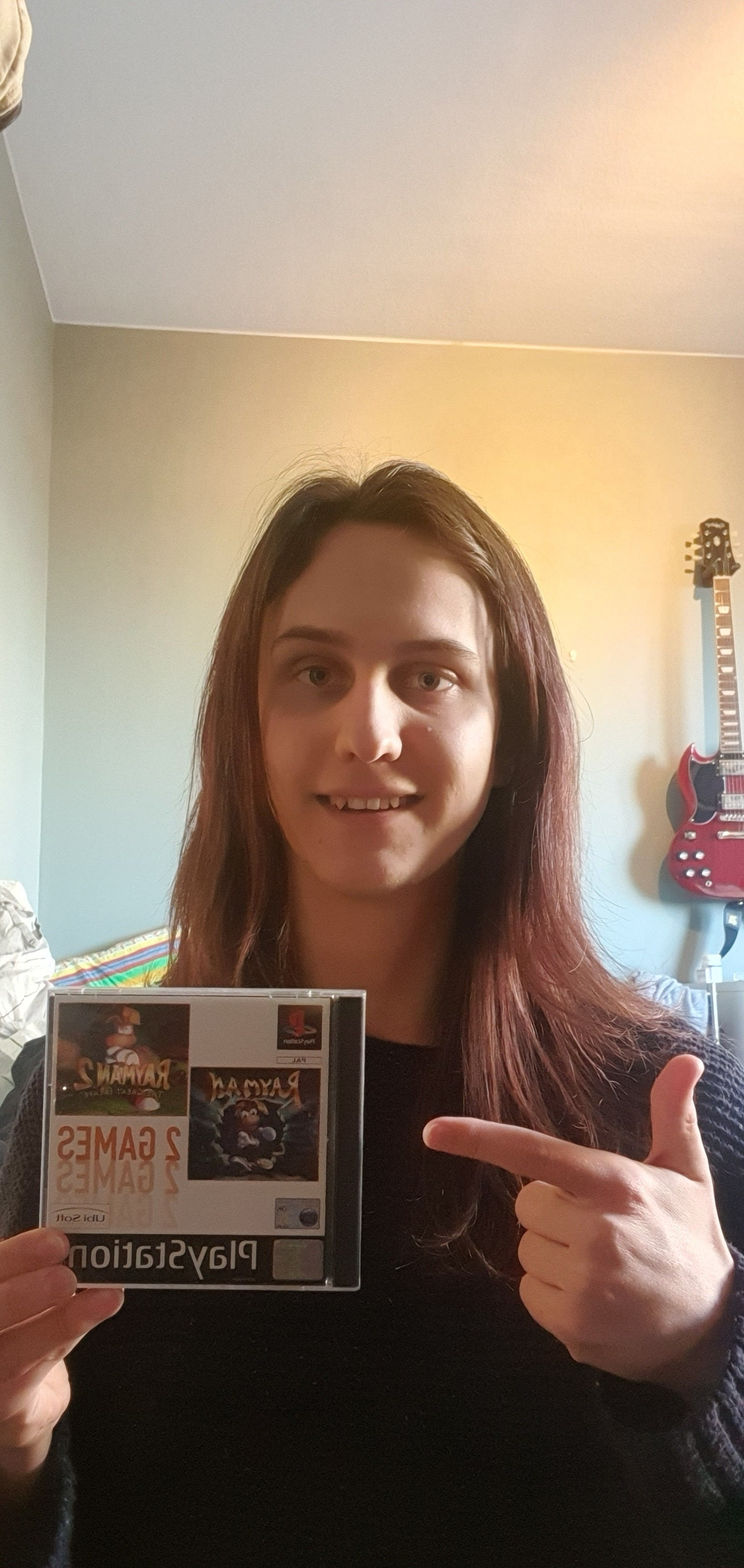
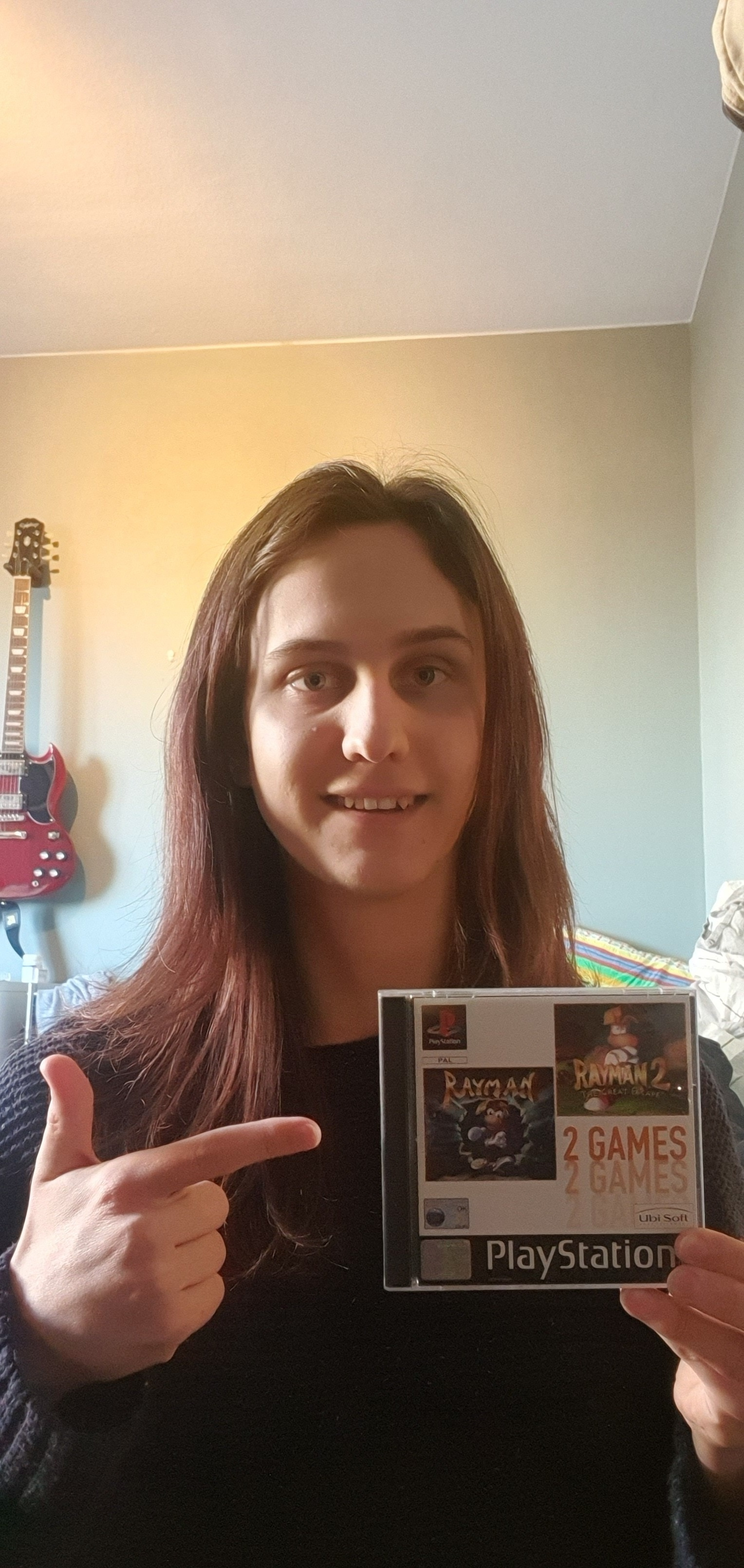
model file and some name changes
- created the model file where all sql methods will be stored

- flipped an image

- changed the name of the slim file "editpage" to "edit"

- created the delete button for games on the edit page, added a post route for it with functioning sql command inside the new model file

- made the submit button green and the delete button red

diff --git a/public/css/style.css b/public/css/style.css
@@ -83,13 +83,21 @@ ol.viewpage{
     color: black;
 }
 
+article.showpage{
+    width: 100%;
+    height: 100%;
+    display: flex;
+    justify-content: space-evenly;
+}
+
+div.showpage{
+}
+
 img.showpage{
-    position: absolute;
     object-fit:;
     left: 750px;
     bottom: 0px;
-    width:450px;
-    height:570px;
+    height:459px;
 }
 
 h2.editpage{
@@ -104,10 +112,23 @@ ol.editpage{
     list-style: none;
 }
 
-li.editpage{
+li.headers_editpage{
     display:flex;
     justify-content: space-around;
     width: 830px;
+}
+
+li.editpage{
+    display: flex;
+    flex-direction: row;
+}
+
+.editsubmit{
+    background-color: rgba(0, 128, 0, 0.45);
+}
+
+.editdelete{
+    background-color: rgba(255, 0, 0, 0.45);
 }
 
 td{

diff --git a/app.rb b/app.rb
@@ -2,6 +2,7 @@
 require 'sinatra/reloader'
 require 'pp'
 require 'sqlite3'
+require_relative 'model.rb'
 enable :sessions
 
 get('/') do
@@ -61,7 +62,7 @@ get('/database/edit') do
   end
 
   game_genres = game_genres.to_h
-  slim(:'games/editpage', locals:{games:games, consoles:consoles, game_genres:game_genres, genres:genres})
+  slim(:'games/edit', locals:{games:games, consoles:consoles, game_genres:game_genres, genres:genres})
 end
 
 
@@ -137,6 +138,11 @@ post('/database/:id/update') do
   genres.each do |genre|
     db.execute('INSERT INTO game_genres (game_id, genre_id) VALUES (?,?)', id, genre)
   end
+  redirect('/database/edit')
+end
+
+post('/database/:id/delete') do
+  Database.new.delete_game(params[:id])
   redirect('/database/edit')
 end
 

diff --git a/model.rb b/model.rb
@@ -1,0 +1,18 @@
+#SQL commands go here 
+class Database
+    def initialize
+        @db = SQLite3::Database.new('db/game_collection.db')
+        @db.results_as_hash = true
+    end
+
+    def all_games
+    end
+
+    def delete_game(id)
+        @db.execute('DELETE FROM games WHERE id=?', id)
+    end
+
+
+    def add_new_user
+    end
+end
